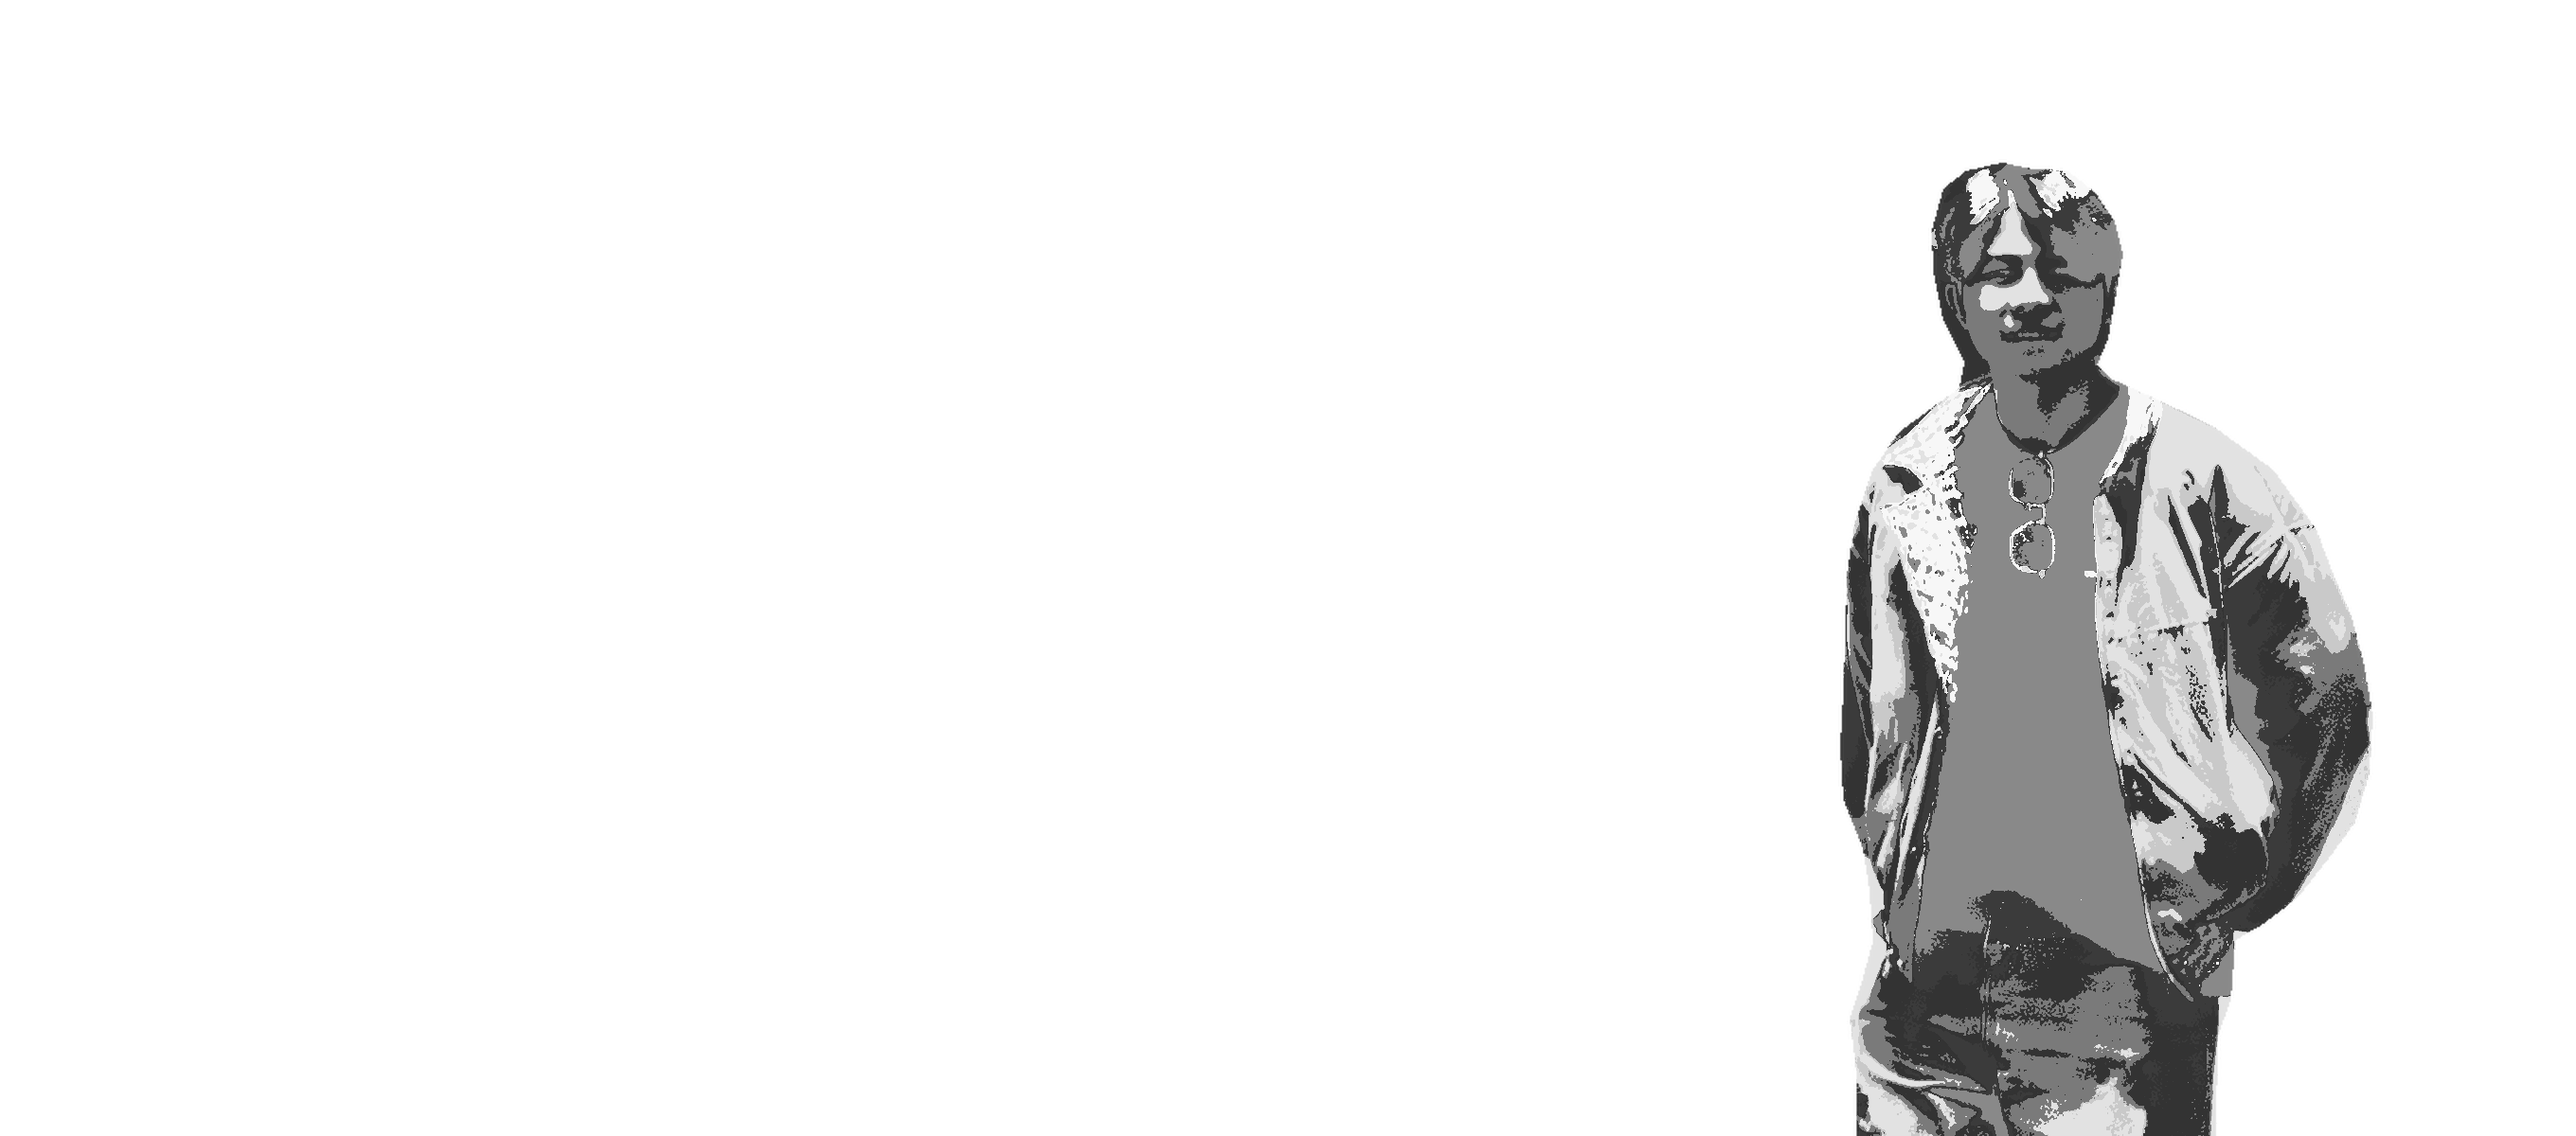
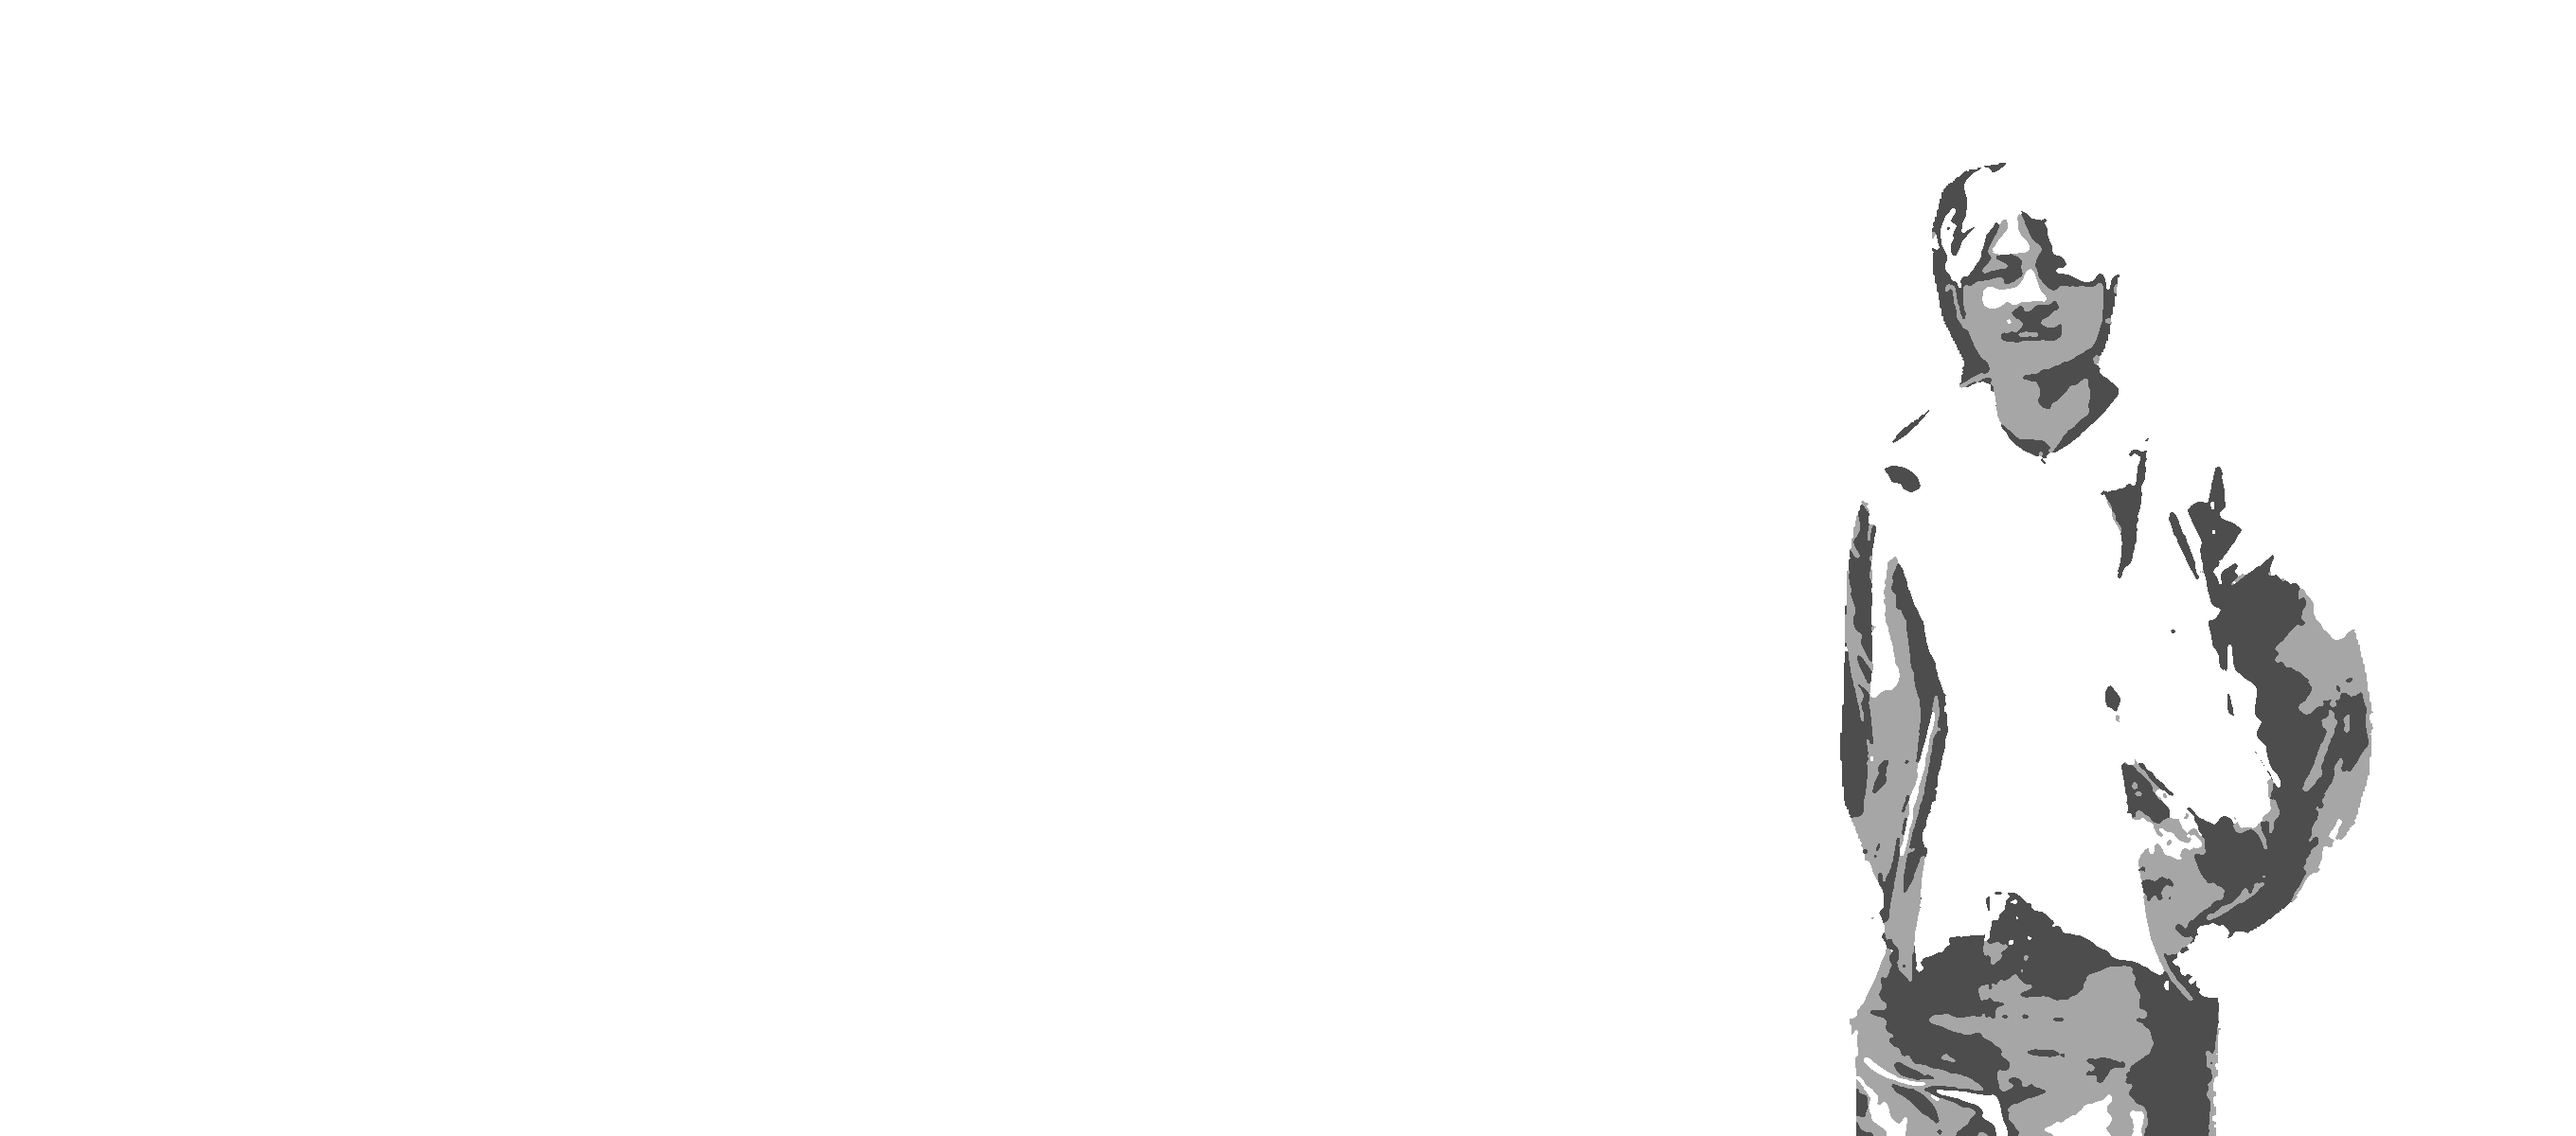
Four-ink landscape from a fixed overprint palette
Each plate uses only 0/35/70/100%; every region picks its colours from a
designer-chosen swatch list of overprints (rock blue tints, forest blue
over yellow, person vermilion over yellow with dark hair and shirt, sky a
single fading blue tint). Pixels map to the nearest swatch (k-means in
CIELAB, CIEDE2000 via scikit-image) after TV smoothing, then a mode filter
cuts flat shapes. Default stays two-ink.

Claude-Session: https://claude.ai/code/session_01AwCbWbsfmMjfusHVwzczHG

Changed region(s): [[0.7188, 0.1233, 0.9375, 1.0]]

diff --git a/design/photo/home_landscape_4c.py b/design/photo/home_landscape_4c.py
@@ -1,25 +1,33 @@
-"""Four-ink separation of the home "mountain and person" image.
+"""Four-ink separation of the home "mountain and person" image, as a Riso print is made:
+from the inks and their overprints, not from the photo's continuous colour.
 
 python3 design/photo/home_landscape_4c.py  ->  src/assets/home/landscape-4c/{a,b,c,d}.png
 
-Inks: a vermilion, b blue, c yellow, d dark. Each plate is an ink-density map
-(alpha 0..1) at the sheet's render size; scripts/render-home-landscape.mjs screens,
-transfers and composites them with the shared print pipeline.
+Inks: a vermilion, b blue, c yellow, d dark. Every plate uses only four levels,
+0 / 35 / 70 / 100 %; a colour on the sheet is one of those levels per ink, overprinted
+(at most two inks at once). Each region of the picture is given the inks it may use, so
+the region's colours come from a small, fixed overprint palette:
 
-Separation is physical, solved with SciPy, not hand-written thresholds: printed colour
-is paper × Π(1 − dᵢ(1 − inkᵢ)), which is linear in optical density, so each colour's
-densities are a bounded least-squares fit (scipy.optimize.lsq_linear) with a small cost
-per ink. The photo is first reduced to a few hundred colours (scikit-learn k-means)
-so only those are solved. Region recipes only set the per-ink costs:
-  mountain  dark ink is expensive (it would turn the rock grey and heavy);
-  person    blue is expensive on skin and jacket, dark is cheap for hair and the black shirt.
+  sky     blue 35 %, fading out towards the top (the one gradient, like the reference poster)
+  clouds  paper
+  rock    blue tints, dark only in the deepest shadow   -> a cool blue mountain
+  forest  blue over yellow                              -> green
+  person  vermilion over yellow for skin and jacket, dark for hair and shirt, blue plaid
+(the swatch lists are SWATCHES below)
+
+The photo supplies only shapes and light/dark: each region is reduced to a few colours
+(scikit-learn k-means in CIELAB, after an edge-preserving smoothing), and each colour is
+replaced by the nearest swatch of that region's overprint palette (CIEDE2000 distance,
+scikit-image). A mode filter then cleans the swatch map into flat shapes. Plates are
+ink-density maps (alpha 0..1); scripts/render-home-landscape.mjs screens, transfers and
+composites them with the shared print pipeline.
 """
 import json, pathlib, subprocess
 import numpy as np
-from PIL import Image
-from scipy.optimize import lsq_linear
+from PIL import Image, ImageFilter
+from scipy import ndimage
 from sklearn.cluster import MiniBatchKMeans
-from skimage import color, exposure
+from skimage import color, exposure, measure, morphology, restoration
 
 root = pathlib.Path(__file__).resolve().parents[2]
 node = lambda js: json.loads(subprocess.check_output(['node', '--experimental-strip-types', '-e', js], cwd=root, stderr=subprocess.DEVNULL))
@@ -28,88 +36,111 @@ P = node("import('./src/design/settings.ts').then(m=>{const c=JSON.parse(require
 
 k = L['scale']; W, H, BH = L['width'] * k, L['height'] * k, L['band']['height'] * k; top = H - BH
 hexrgb = lambda h: np.array([int(h[i:i + 2], 16) for i in (1, 3, 5)], np.float32) / 255
-INKS = {'a': hexrgb(P['secondary']), 'b': hexrgb(P['primary']), 'c': hexrgb(P['yellow']), 'd': hexrgb(P['dark'])}
-OD = np.stack([-np.log(np.clip(v, .02, 1)) for v in INKS.values()], 1)          # 3 × 4
+INKS = 'abcd'
+INK_RGB = np.stack([hexrgb(P['secondary']), hexrgb(P['primary']), hexrgb(P['yellow']), hexrgb(P['dark'])])
+LEVELS = (0, .35, .7, 1)
 
-def separate(rgb, cost, n_colors, seed=0):
-    """rgb: (N, 3) in 0..1 -> densities (N, 4) for inks a, b, c, d.
-    A small n_colors posterises the image into flat tones, as a screenprint would be cut."""
-    km = MiniBatchKMeans(n_colors, random_state=seed, n_init=3, batch_size=4096).fit(color.rgb2lab(rgb[None])[0])
-    centres = np.clip(color.lab2rgb(km.cluster_centers_[None])[0], 0, 1)
-    A = np.vstack([OD, np.diag(cost)])
-    dens = np.array([lsq_linear(A, np.concatenate([-np.log(np.clip(c, .02, 1)), np.zeros(4)]), bounds=(0, 1)).x
-                     for c in centres])
-    return dens[km.labels_]
+def swatch(spec):
+    """'a35+c70' -> densities; 'paper' -> no ink. Levels must be plate levels."""
+    d = np.zeros(4, np.float32)
+    for part in ([] if spec == 'paper' else spec.split('+')):
+        level = int(part[1:]) / 100; assert level in LEVELS, part; d[INKS.index(part[0])] = level
+    return d
 
-def poster(rgb, sat=1.3, gamma=.9):
-    """A little more colour and contrast, as a Riso poster would be drawn."""
-    hsv = color.rgb2hsv(rgb); hsv[..., 1] = np.clip(hsv[..., 1] * sat, 0, 1)
-    return exposure.adjust_gamma(color.hsv2rgb(hsv), gamma)
+def palette(specs):
+    """A region's swatches: densities (n, 4) and their printed colour in Lab (n, 3)."""
+    dens = np.array([swatch(s) for s in specs])
+    rgb = np.prod(1 - dens[:, :, None] * (1 - INK_RGB[None]), axis=1)      # subtractive overprint on white
+    return dens, color.rgb2lab(rgb[None])[0]
 
-# Mountain band (bottom of the sheet), same crop as the two-ink version.
+def to_swatches(rgb, mask, specs, n_colors, seed):
+    """Map the masked pixels to the nearest swatch of the region's overprint palette."""
+    dens, pal = palette(specs)
+    lab = color.rgb2lab(rgb)[mask]
+    km = MiniBatchKMeans(n_colors, random_state=seed, n_init=3, batch_size=4096).fit(lab)
+    # Spread the region's lightness over the palette's range so it uses light and dark swatches.
+    lo, hi = np.percentile(lab[:, 0], [3, 97]); plo, phi = pal[:, 0].min(), pal[:, 0].max()
+    centres = km.cluster_centers_.copy(); centres[:, 0] = np.interp(centres[:, 0], [lo, hi], [plo, phi])
+    dist = color.deltaE_ciede2000(centres[:, None], pal[None])
+    choice = dist.argmin(1)[km.labels_]
+    out = np.full(mask.shape, -1, np.int32); out[mask] = choice
+    return out, dens
+
+def flatten(labels, mask, size):
+    """Mode filter: every pixel takes the most common swatch around it, inside the region."""
+    smooth = np.asarray(Image.fromarray(np.where(mask, labels + 1, 0).astype(np.uint8)).filter(ImageFilter.ModeFilter(size))).astype(np.int32) - 1
+    # Region edges where the mode was "outside": take the nearest swatch, never leave paper gaps.
+    holes = mask & (smooth < 0)
+    if holes.any():
+        _, (iy, ix) = ndimage.distance_transform_edt(smooth < 0, return_indices=True)
+        smooth[holes] = smooth[iy[holes], ix[holes]]
+    return np.where(mask, smooth, -1)
+
+def place(region_dens, labels, mask, target):
+    m = mask & (labels >= 0)
+    target[m] = region_dens[labels[m]]
+
+def smooth_rgb(rgb):
+    """Edge-preserving smoothing, so regions break into shapes rather than texture."""
+    return np.clip(restoration.denoise_tv_chambolle(rgb, weight=.08, channel_axis=-1), 0, 1)
+
+# ---------------------------------------------------------------- landscape
 src = L['band']['source']
 band = Image.open(root / L['mountain']).convert('RGB').crop((src['left'], src['top'], src['left'] + src['width'], src['top'] + src['height']))
 band = np.asarray(band.resize((W, BH), Image.LANCZOS), np.float32) / 255
-plates = np.zeros((H, W, 4), np.float32)
-# Regions from the untouched photo: sky = saturated blue and bright, forest = dark.
 hsv = color.rgb2hsv(band)
-sky = (hsv[..., 0] > .52) & (hsv[..., 0] < .7) & (hsv[..., 1] > .3) & (hsv[..., 2] > .45)
-forest = ~sky & (hsv[..., 2] < .36)
-from skimage import morphology
 clean = lambda m: morphology.remove_small_holes(morphology.remove_small_objects(morphology.opening(m, morphology.disk(2)), 4000), 4000)
-sky, forest = clean(sky), clean(forest) & ~clean(sky)
-# Clouds: bright, unsaturated blobs touching the sky in the upper half; they print as paper.
-from skimage import measure
+sky = clean((hsv[..., 0] > .52) & (hsv[..., 0] < .7) & (hsv[..., 1] > .3) & (hsv[..., 2] > .45))
+forest = clean(~sky & (hsv[..., 2] < .36)) & ~sky
 bright = clean((hsv[..., 2] > .7) & (hsv[..., 1] < .2)) & ~sky
 lab_ = measure.label(bright); near_sky = morphology.binary_dilation(sky, morphology.disk(6))
 clouds = np.zeros_like(sky)
 for r in measure.regionprops(lab_):
     if r.centroid[0] < .6 * BH and near_sky[lab_ == r.label].any(): clouds |= lab_ == r.label
-# Their soft grey rims too: grow into neighbouring light pixels, never into dark rock.
 clouds = morphology.binary_dilation(clouds, morphology.disk(9)) & (hsv[..., 2] > .5) & ~sky
-# Rock relief: adaptive histogram equalisation (CLAHE) on lightness only.
-lab = color.rgb2lab(band); lab[..., 0] = exposure.equalize_adapthist(lab[..., 0] / 100, clip_limit=.02) * 100
-band = np.clip(color.lab2rgb(lab), 0, 1)
-# Landscape regions use gradient maps (lightness -> ink densities), the usual way a
-# Riso print assigns an ink to each part of a picture (here a cool landscape: blue rock,
-# blue-yellow forest, so the warm figure stands out); the person keeps a physical
-# separation because his colours (skin, jacket, black shirt) should read as themselves.
-RAMPS = {  # stops: lightness, (a vermilion, b blue, c yellow, d dark)
-    'sky':    [(0, (0, .3, 0, 0)), (.6, (0, .18, 0, 0)), (1, (0, .02, 0, 0))],
-    'forest': [(0, (0, .85, .55, .45)), (.25, (0, .7, .6, .15)), (.5, (0, .5, .55, 0)), (1, (0, .12, .25, 0))],
-    'clouds': [(0, (0, .12, 0, 0)), (1, (0, 0, 0, 0))],
-    'rock':   [(0, (0, .85, 0, .5)), (.3, (0, .7, 0, .12)), (.55, (0, .45, 0, 0)), (.8, (0, .16, .06, 0)), (1, (0, 0, 0, 0))],
-}
-def gradient_map(lightness, stops):
-    xs = [p for p, _ in stops]
-    return np.stack([np.interp(lightness, xs, [v[i] for _, v in stops]) for i in range(4)], -1)
-light = np.clip(lab[..., 0] / 100, 0, 1)
-m = np.zeros((BH, W, 4), np.float32)
-for name, where in [('sky', sky), ('clouds', clouds), ('forest', forest), ('rock', ~sky & ~clouds & ~forest)]:
-    m[where] = gradient_map(light[where], RAMPS[name])
-# The band rises out of the paper: fade in over its upper part (sky further than rock).
-y = np.linspace(0, 1, BH, dtype=np.float32)[:, None]
-smooth = lambda t: (lambda u: u * u * (3 - 2 * u))(np.clip(t, 0, 1))
-fade = np.where(sky | clouds, smooth((y - .02) / .53) ** 1.4, smooth((y - .08) / .22))
-plates[top:] = m * fade[..., None]
+rock = ~sky & ~clouds & ~forest
 
-# Person, bottom-aligned at the configured place, in front of the mountain.
+lab = color.rgb2lab(band); lab[..., 0] = exposure.equalize_adapthist(lab[..., 0] / 100, clip_limit=.02) * 100
+shaped = smooth_rgb(np.clip(color.lab2rgb(lab), 0, 1))
+m = np.zeros((BH, W, 4), np.float32)
+# Each region's swatches, light to dark: the designer's choice of inks and overprints.
+SWATCHES = {
+    'rock':   ['paper', 'b35', 'b70', 'b100', 'b100+d35'],
+    'forest': ['b35+c35', 'b35+c70', 'b70+c70', 'b100+c35', 'b100+d70'],
+    'person': ['paper', 'c35', 'a35+c35', 'a35+c70', 'a70+c70', 'a70+d35', 'b70', 'd70', 'd100'],
+}
+for name, mask, n, mode in [('rock', rock, 6, 9), ('forest', forest, 5, 7)]:
+    labels, dens = to_swatches(shaped, mask, SWATCHES[name], n, seed=len(name))
+    place(dens, flatten(labels, mask, mode), mask, m)
+# Sky: one flat blue tint that fades out upwards; clouds stay paper.
+y = np.linspace(0, 1, BH, dtype=np.float32)[:, None]
+smoothstep = lambda t: (lambda u: u * u * (3 - 2 * u))(np.clip(t, 0, 1))
+m[..., 1] = np.where(sky, LEVELS[1] * smoothstep((y - .02) / .53), m[..., 1])
+# The mountain itself starts just below the sheet's upper edge of the band.
+m *= np.where(sky, 1, smoothstep((y - .08) / .1))[..., None]
+plates = np.zeros((H, W, 4), np.float32); plates[top:] = m
+
+# ---------------------------------------------------------------- person
 cut = Image.open(root / L['personSource']).convert('RGBA')
 ph = round(H * L['placement']['height']); pw = round(ph * cut.width / cut.height)
 px, py = round(W * L['placement']['x'] - pw / 2), H - ph
-cut = cut.resize((pw, ph), Image.LANCZOS)   # the approved cutout's own matte, uncut
+cut = cut.resize((pw, ph), Image.LANCZOS)          # the approved cutout's own matte, uncut
 person = np.asarray(cut, np.float32) / 255
-alpha = person[..., 3:4]
+alpha = person[..., 3]; inside = alpha > .5
 plab = color.rgb2lab(person[..., :3]); plab[..., 0] = exposure.equalize_adapthist(plab[..., 0] / 100, clip_limit=.015) * 100
-prgb = np.clip(color.lab2rgb(plab), 0, 1)   # local contrast so the face keeps its features
-# Few flat tones (posterised), so the screen, not photographic gradation, carries the image.
-pd = separate(poster(prgb, sat=1.2, gamma=1.1).reshape(-1, 3), cost=np.array([.03, .5, .03, .06]), n_colors=7, seed=7).reshape(ph, pw, 4)
+prgb = smooth_rgb(np.clip(color.lab2rgb(plab), 0, 1))
+labels, dens = to_swatches(prgb, inside, SWATCHES['person'], 8, seed=7)
+labels = flatten(labels, inside, 5)
+pd = np.zeros((ph, pw, 4), np.float32); place(dens, labels, inside, pd)
+# Hard edge, as a cut plate: the matte is thresholded, not blended.
 x0, x1 = max(px, 0), min(px + pw, W); sx = x0 - px
-region = plates[py:py + ph, x0:x1]
-plates[py:py + ph, x0:x1] = region * (1 - alpha[:, sx:sx + x1 - x0]) + pd[:, sx:sx + x1 - x0] * alpha[:, sx:sx + x1 - x0]
+sub = plates[py:py + ph, x0:x1]; a = inside[:, sx:sx + x1 - x0, None]
+plates[py:py + ph, x0:x1] = np.where(a, pd[:, sx:sx + x1 - x0], sub)
 
+# ---------------------------------------------------------------- output
 out = root / 'src' / 'assets' / 'home' / 'landscape-4c'; out.mkdir(parents=True, exist_ok=True)
-for i, ink in enumerate('abcd'):
+for i, ink in enumerate(INKS):
     img = np.zeros((H, W, 4), np.uint8); img[..., 3] = np.round(np.clip(plates[..., i], 0, 1) * 255)
     Image.fromarray(img).save(out / f'{ink}.png', optimize=True)
-    print(ink, 'mean density', round(float(plates[..., i].mean()), 3))
+used = {tuple(v) for v in plates.reshape(-1, 4)[::97]}
+print('distinct ink combinations on the sheet (sampled):', len(used))
